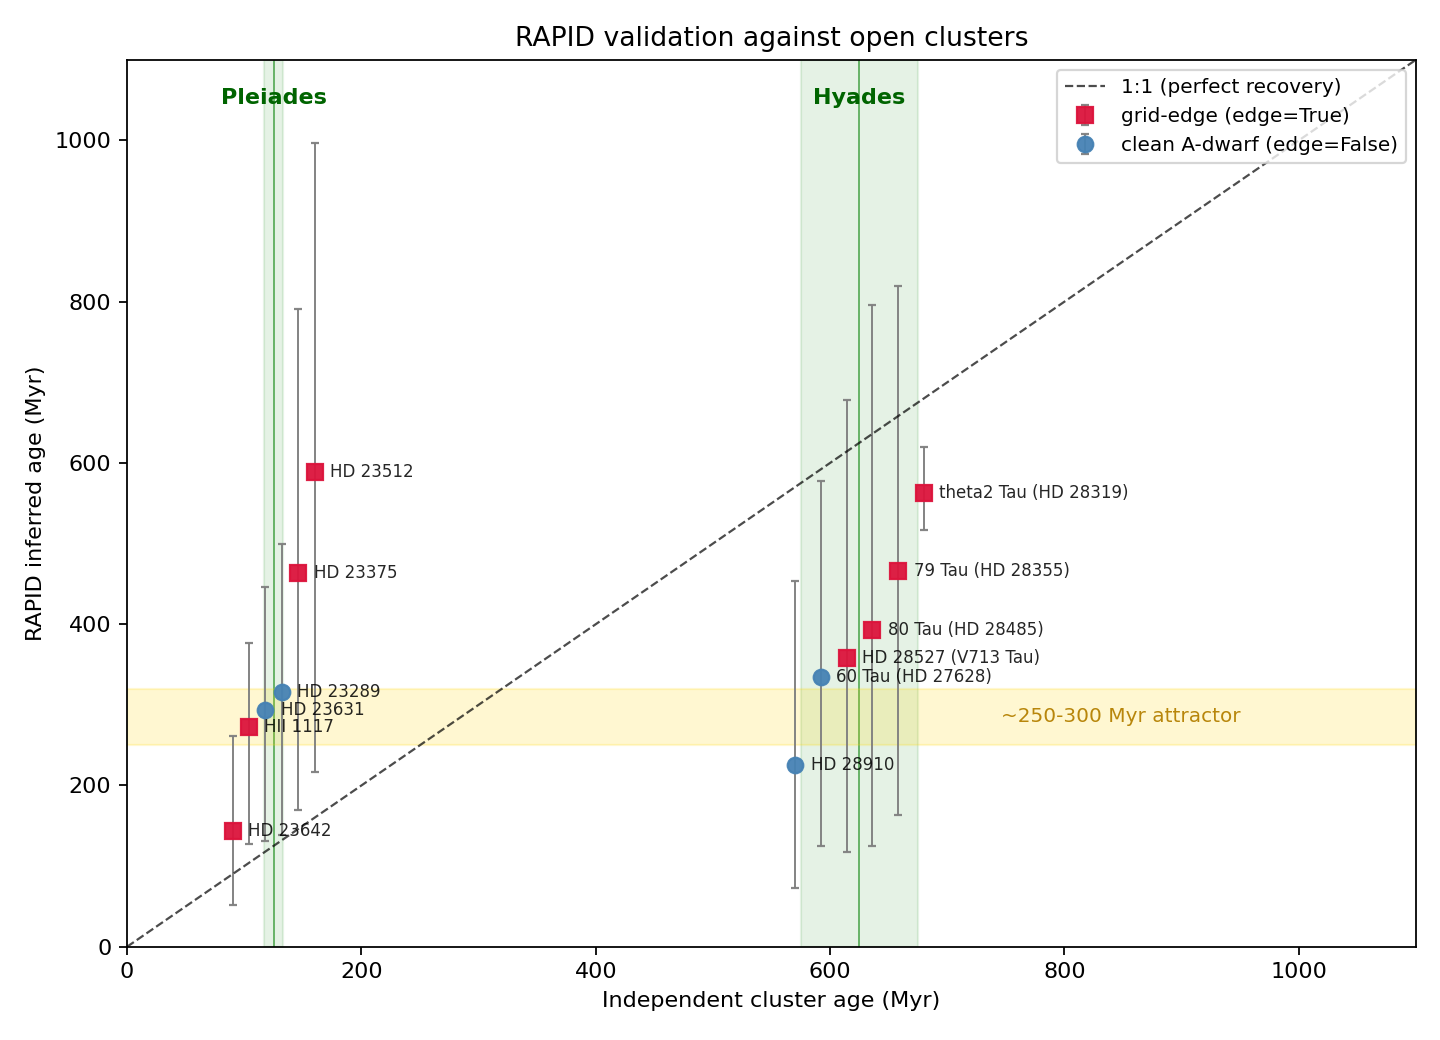
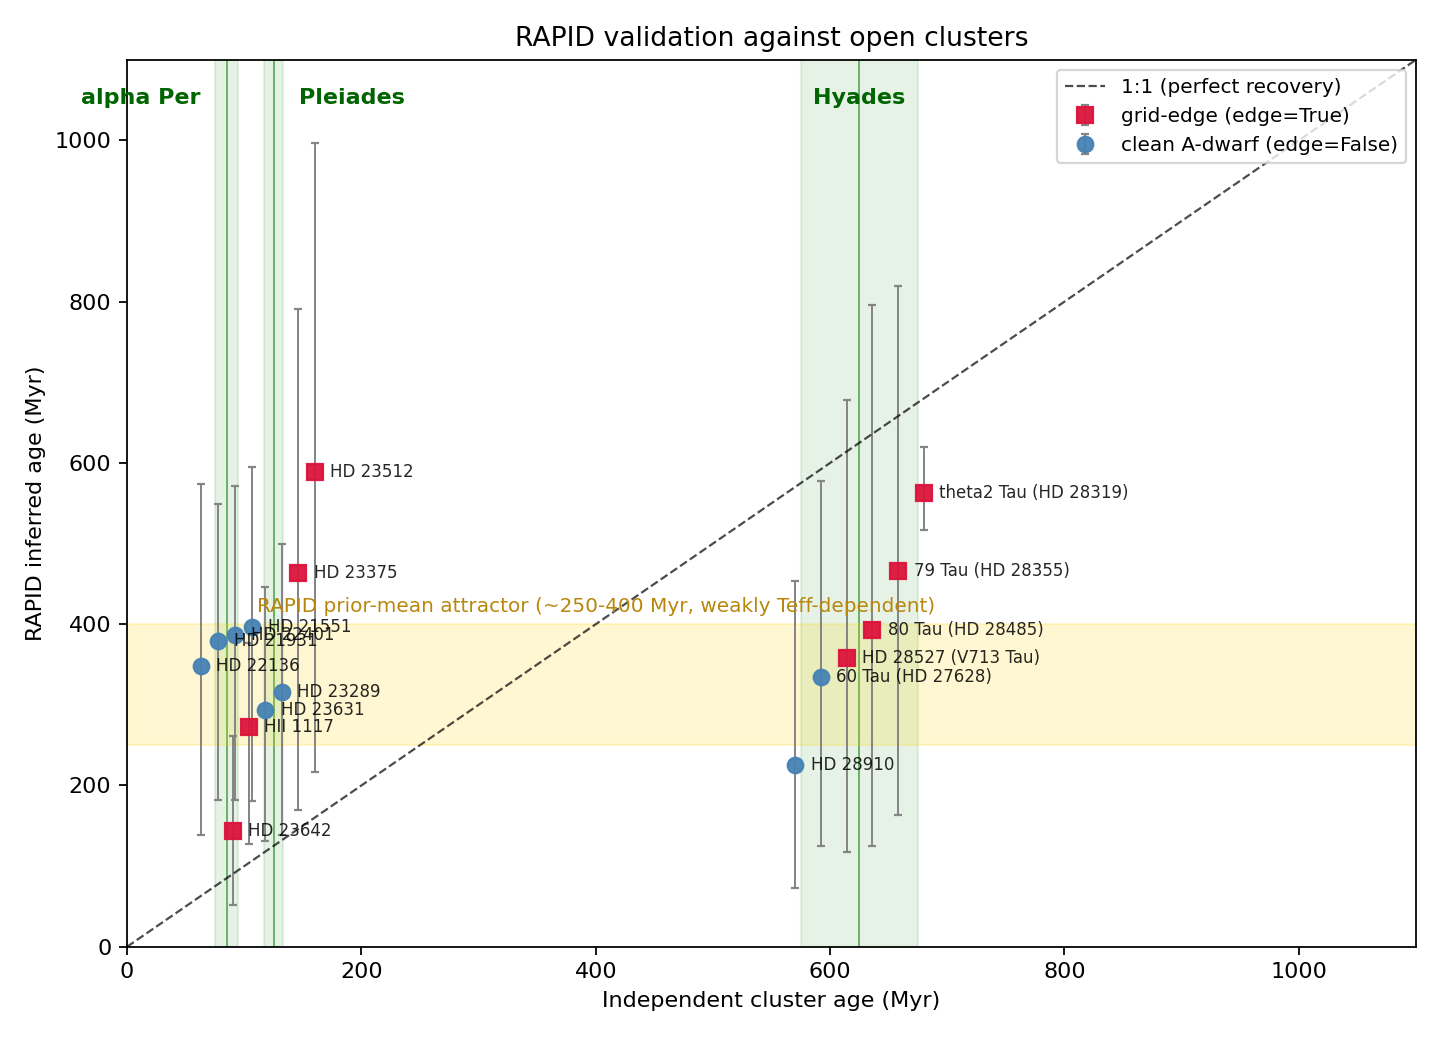
Phase 2 step 3: alpha Per validation; three-cluster summary confirms prior-mean attractor

Changed region(s): [[0.0625, 0.0615, 1.0, 0.9231]]

diff --git a/scripts/05_validation_summary.py b/scripts/05_validation_summary.py
@@ -15,22 +15,26 @@ CLUSTERS = {
                      jitter_halfwidth=35.0),
     "hyades":   dict(age=625.0, age_err=50.0, label="Hyades",
                      jitter_halfwidth=55.0),
+    "alphaper": dict(age= 85.0, age_err=10.0, label="alpha Per",
+                     jitter_halfwidth=22.0),
 }
 
 fig, ax = plt.subplots(figsize=(9, 6.5))
 
 # cluster age bands (vertical)
+label_offsets = {"alphaper": (-22, "right"), "pleiades": (+22, "left"), "hyades": (0, "center")}
 for cname, c in CLUSTERS.items():
     ax.axvspan(c["age"] - c["age_err"], c["age"] + c["age_err"],
                color="green", alpha=0.10, zorder=-2)
     ax.axvline(c["age"], color="green", lw=0.8, alpha=0.6, zorder=-1)
-    ax.text(c["age"], 1040, c["label"], ha="center", va="bottom",
+    dx, ha = label_offsets.get(cname, (0, "center"))
+    ax.text(c["age"] + dx, 1040, c["label"], ha=ha, va="bottom",
             color="darkgreen", fontsize=10, fontweight="bold")
 
 # attractor band (horizontal)
-ax.axhspan(250, 320, color="gold", alpha=0.18, zorder=-1)
-ax.text(950, 285, "~250-300 Myr attractor", color="darkgoldenrod",
-        fontsize=9, va="center", ha="right")
+ax.axhspan(250, 400, color="gold", alpha=0.18, zorder=-1)
+ax.text(400, 410, "RAPID prior-mean attractor (~250-400 Myr, weakly Teff-dependent)",
+        color="darkgoldenrod", fontsize=9, va="bottom", ha="center")
 
 # loop over clusters and plot
 all_handles = {"clean": None, "edge": None}

diff --git a/scripts/03_cluster_validation.py b/scripts/03_cluster_validation.py
@@ -12,6 +12,8 @@ CLUSTERS = {
                      ref="Stauffer+98 (LDB)"),
     "hyades":   dict(age=625.0, age_err=50.0, csv="hyades_seed.csv",
                      ref="Perryman+98"),
+    "alphaper": dict(age= 85.0, age_err=10.0, csv="alphaper_seed.csv",
+                     ref="Stauffer+99 (LDB)"),
 }
 
 ROOT = Path(__file__).resolve().parents[1]
